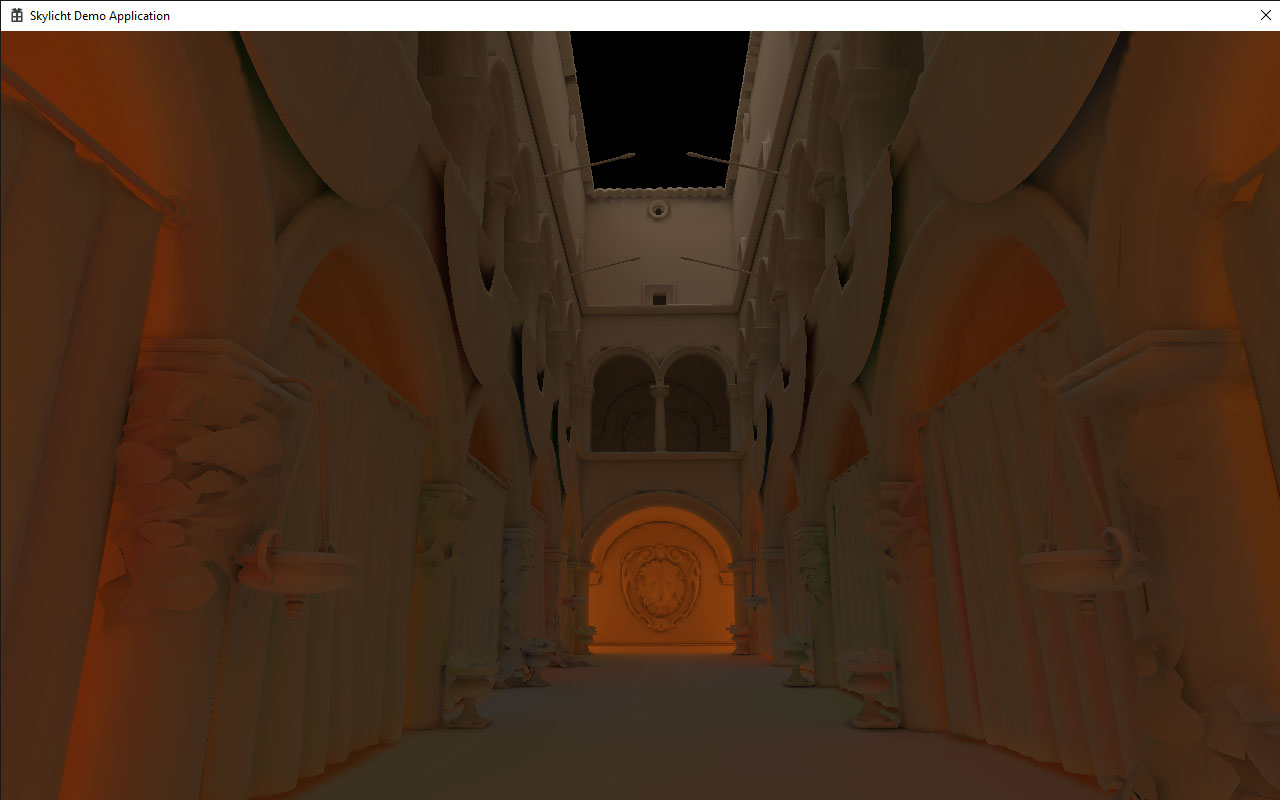
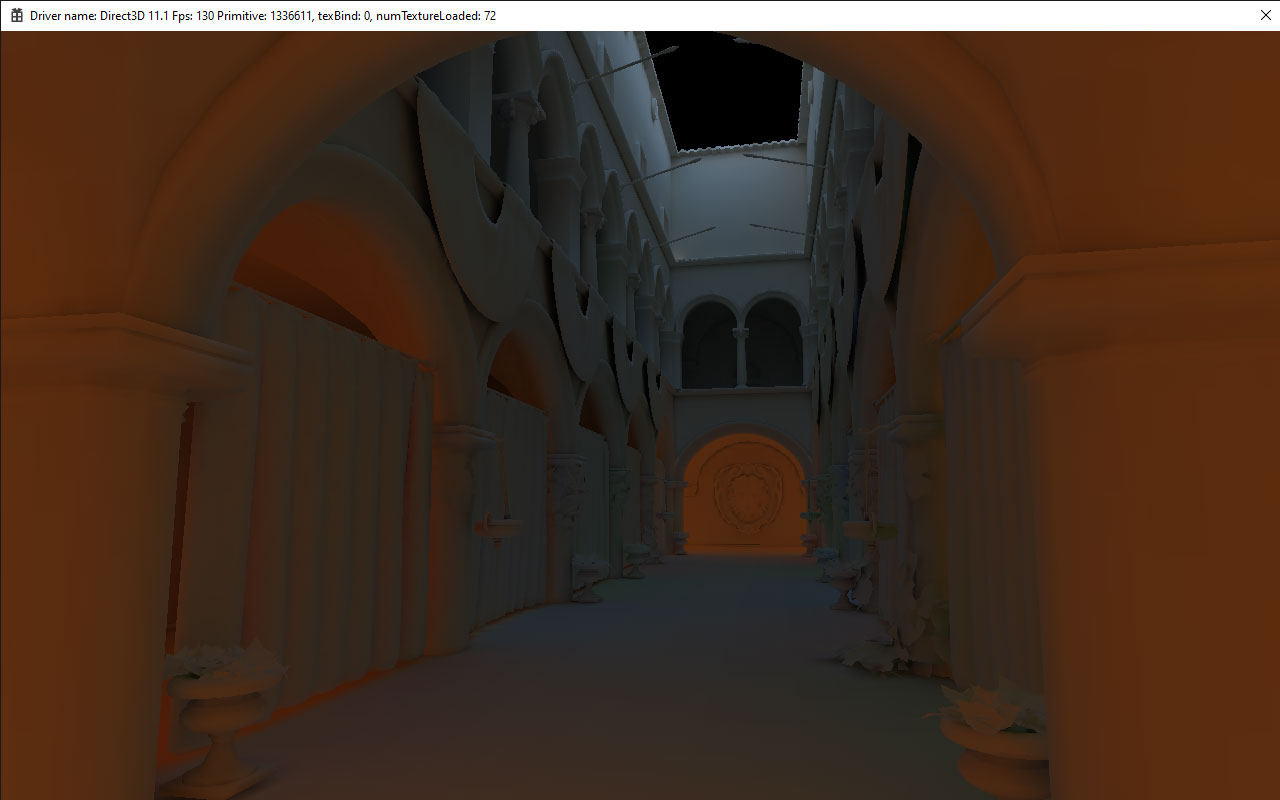
Setup new sponza sky

diff --git a/Samples/Sponza/Source/CViewInit.cpp b/Samples/Sponza/Source/CViewInit.cpp
@@ -62,7 +62,7 @@ void CViewInit::initScene()
 	guiCamera->setProjectionType(CCamera::OrthoUI);
 
 	// sky
-	ITexture *skyDomeTexture = CTextureManager::getInstance()->getTexture("Common/Textures/Sky/PaperMill.png");
+	ITexture *skyDomeTexture = CTextureManager::getInstance()->getTexture("Common/Textures/Sky/Helipad.png");
 	if (skyDomeTexture != NULL)
 	{
 		CSkyDome *skyDome = zone->createEmptyObject()->addComponent<CSkyDome>();
@@ -140,9 +140,9 @@ void CViewInit::initScene()
 		// init lightmap texture array
 		// See SampleLightmapping, that how to render this
 		std::vector<std::string> textures;
-		textures.push_back("Sponza/LightMapRasterize_bounce_4_0.png");
-		textures.push_back("Sponza/LightMapRasterize_bounce_4_1.png");
-		textures.push_back("Sponza/LightMapRasterize_bounce_4_2.png");
+		textures.push_back("Sponza/LightMapRasterize_bounce_3_0.png");
+		textures.push_back("Sponza/LightMapRasterize_bounce_3_1.png");
+		textures.push_back("Sponza/LightMapRasterize_bounce_3_2.png");
 
 		ITexture* lightmapTexture = CTextureManager::getInstance()->getTextureArray(textures);
 		if (lightmapTexture != NULL)
@@ -160,6 +160,8 @@ void CViewInit::initScene()
 
 	context->setGUICamera(guiCamera);
 	context->setDirectionalLight(directionalLight);
+	
+	// context->getDefferredRP()->enableTestIndirect(true);
 
 	initProbes();
 }
@@ -173,7 +175,8 @@ void CViewInit::initProbes()
 
 	for (int i = 0; i < 7; i++)
 	{
-		float x = i * 5.2f - 3.0f * 5.2f;
+		float dis = 4.0f;
+		float x = i * dis - 3.0f *dis;
 
 		// row 0
 		probesPosition.push_back(core::vector3df(x, 2.0f, -0.4f));

diff --git a/Samples/Lightmapping/Source/CViewInit.cpp b/Samples/Lightmapping/Source/CViewInit.cpp
@@ -63,7 +63,11 @@ void CViewInit::onInit()
 	camera->lookAt(core::vector3df(0.0f, 0.0f, 0.0f), core::vector3df(0.0f, 1.0f, 0.0f));
 
 	// sky
+#ifdef LIGHTMAP_SPONZA
+	ITexture *skyDomeTexture = CTextureManager::getInstance()->getTexture("Common/Textures/Sky/Helipad.png");
+#else
 	ITexture *skyDomeTexture = CTextureManager::getInstance()->getTexture("Common/Textures/Sky/PaperMill.png");
+#endif
 	if (skyDomeTexture != NULL)
 	{
 		CSkyDome *skyDome = zone->createEmptyObject()->addComponent<CSkyDome>();
@@ -75,7 +79,7 @@ void CViewInit::onInit()
 	CGameObject *lightObj = zone->createEmptyObject();
 
 	CDirectionalLight *directionalLight = lightObj->addComponent<CDirectionalLight>();
-	directionalLight->setIntensity(2.0f);
+	directionalLight->setIntensity(1.0f);
 
 	CTransformEuler *lightTransform = lightObj->getTransformEuler();
 	lightTransform->setPosition(core::vector3df(2.0f, 2.0f, 2.0f));
@@ -150,11 +154,11 @@ void CViewInit::onInit()
 
 			float c[] = { 165.0f / 255.0f, 161.0f / 255.0f, 147 / 255.0f, 1.0f };
 			material->setUniform4("uColor", c);
-	}
+		}
 #endif
 
 		renderMesh->initMaterial(materials);
-}
+	}
 
 	// save to context	
 	context->initRenderPipeline(app->getWidth(), app->getHeight(), false);

diff --git a/Samples/LightmapUV/Source/SampleLightmapUV.cpp b/Samples/LightmapUV/Source/SampleLightmapUV.cpp
@@ -110,7 +110,7 @@ void SampleLightmapUV::onInitApp()
 			std::string name = transforms[meshID]->Name;
 			if (name == "celling_sponza")
 			{
-				m_unwrap.addMesh(renderData->getMesh(), 0.4f);
+				m_unwrap.addMesh(renderData->getMesh(), 0.5f);
 			}
 			else if (name == "floor_sponza")
 			{
@@ -122,7 +122,7 @@ void SampleLightmapUV::onInitApp()
 			}
 			else if (name == "smallwall_sponza")
 			{
-				m_unwrap.addMesh(renderData->getMesh(), 0.2f);
+				m_unwrap.addMesh(renderData->getMesh(), 0.5f);
 			}
 			else if (name == "top_sponza")
 			{

diff --git a/Projects/Skylicht/Lightmapper/Source/Lightmapper/Components/Probe/CLightProbeData.cpp b/Projects/Skylicht/Lightmapper/Source/Lightmapper/Components/Probe/CLightProbeData.cpp
@@ -34,7 +34,7 @@ namespace Skylicht
 		CLightProbeData::CLightProbeData()
 		{
 			const IGeometryCreator *geometryCreator = getIrrlichtDevice()->getSceneManager()->getGeometryCreator();
-			ProbeMesh = geometryCreator->createSphereMesh(0.2f);
+			ProbeMesh = geometryCreator->createSphereMesh(0.3f);
 			ProbeMesh->setHardwareMappingHint(EHM_STATIC);
 
 			int shShader = CShaderManager::getInstance()->getShaderIDByName("SH");

diff --git a/Samples/Lightmapping/Source/CViewBakeLightmap.cpp b/Samples/Lightmapping/Source/CViewBakeLightmap.cpp
@@ -4,7 +4,7 @@
 #include "Context/CContext.h"
 #include "ViewManager/CViewManager.h"
 
-u32 CViewBakeLightmap::s_numLightBounce = 4;
+u32 CViewBakeLightmap::s_numLightBounce = 3;
 
 CViewBakeLightmap::CViewBakeLightmap() :
 	m_currentPass(0),

diff --git a/Samples/LightmapUV/Source/SampleLightmapUV.h b/Samples/LightmapUV/Source/SampleLightmapUV.h
@@ -5,7 +5,7 @@
 
 #include "UnwrapUV/CUnwrapUV.h"
 
-//#define LIGHTMAP_SPONZA
+// #define LIGHTMAP_SPONZA
 
 class SampleLightmapUV :
 	public IApplicationEventReceiver,
